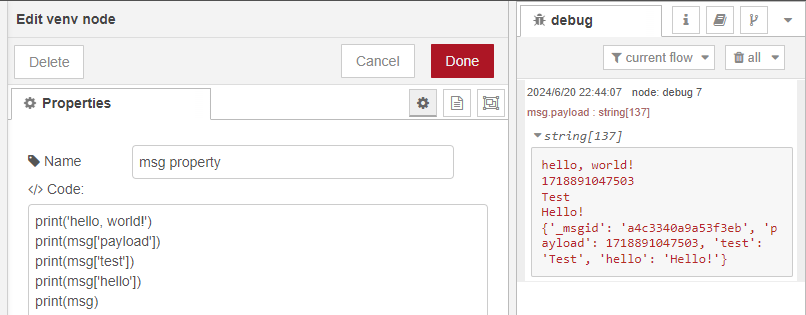
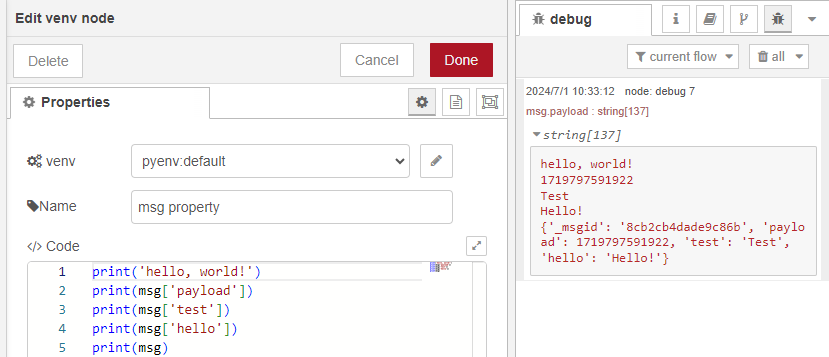
Update README.md

Changed region(s): [[0.0, 0.0, 1.0, 1.0]]

diff --git a/README.md b/README.md
@@ -7,7 +7,7 @@ Node for python virtual environment
 With this node, you can run Python programs.  
 
 When you install this node, python virtual environment (pyenv folder) is also created.  
-You can run python.exe or pip.exe in that environment.
+You can run python(.exe) or pip(.exe) in that environment.
 
 ## Test Case
 
@@ -18,25 +18,17 @@ Windows 10
 - Python: 3.8.3
 - pip: 24.0
 
-Raspberry Pi
-
-- Debian bookworm
-- Node.js: v18.19.0
-- npm: 9.2.0
-- Python: 3.11.2
-- pip: 24.0
-
 Sample flows are in the examples folder.  
-![sample-flow.jpg](./img/sample-flow.jpg)
+![sample-flow.png](./img/sample-flow.png)
 
 ## Nodes
 
 ### venv node
 
-python.exe is in the ./pyenv/Scripts/python.exe  
+python(.exe) is in the ./pyenv/Scripts/python.exe or Python virtual environment you have added.  
 
 Write your Python code in the node.  
-The program is saved in a tmp folder and executed.  
+The program is saved in the virtual environment and executed.  
 
 ![venv-node.jpg](./img/venv-node.png)
 
@@ -48,12 +40,16 @@ You can access Node-RED messages like `print(msg['payload'])`.
 
 ![msg-property-inject.png](./img/msg-property-inject.png)
 
+The number of running nodes is displayed in the status.  
+
+![running-status.png](./img/running-status.png)
+
 ### pip node
 
-pip.exe is in the ./pyenv/Scripts/pip.exe  
+pip(.exe) is in the ./pyenv/Scripts/pip.exe or Python virtual environment you have added.  
 
-You can run pip commands like install, uninstall, list, etc.  
-Select the options.  
+You can run pip commands like install, uninstall, list.  
+Select the commands.  
 
 ![pip-node.jpg](./img/pip-node.png)
 
@@ -65,7 +61,7 @@ Please compare.
 ### venv-config (config node)
 
 You can create and switch between multiple Python virtual environments.  
-You can also specify the Python version only in Windows.  
+You can also specify the Python version **only in Windows**.  
 
 If not selected in venv and pip nodes, the virtual environment named pyenv will be used.  
 When a configuration node is deleted, the virtual environment with that name is also deleted.  
